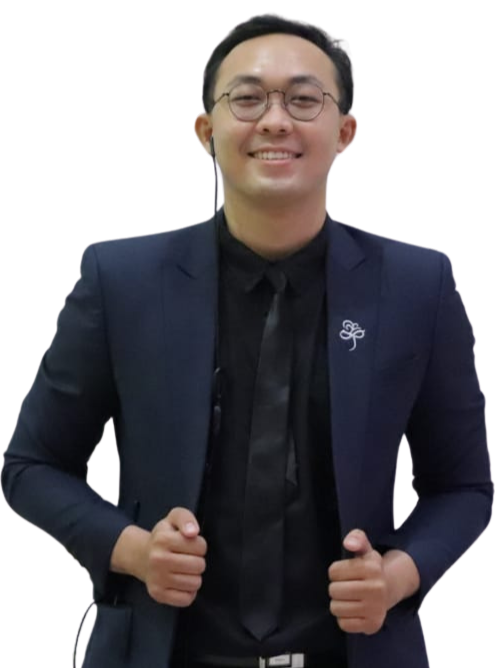
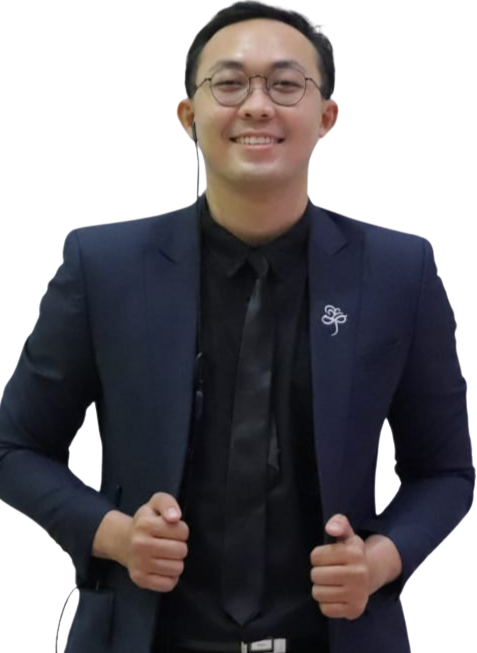
responsive

diff --git a/index.css b/index.css
@@ -1118,7 +1118,7 @@ a {
 }
 .popup-pembayaran h1 {
     color: var(--hijau-muda);
-    font-size: 15px;
+    font-size: 1.1vw;
 }
 
 .popup-pembayaran h2 {
@@ -1127,7 +1127,7 @@ a {
 }
 .popup-pembayaran img{
     width: 220px;
-    height: 200px;
+    height: 210px;
     margin: 50px 0;
 }
 .button-container {
@@ -1224,13 +1224,13 @@ a {
 
 .popup-berhasil h1 {
     color: var(--hijau-muda);
-    font-size: 12px;
+    font-size: 1vw;
 }
 .popup-berhasil h1 span {
     color: var(--hitam);
 }
 .popup-berhasil h2,.popup-terima h2 {
-    font-size: 30px;
+    font-size: 2vw;
     color: var(--hitam);
     margin: 20px 0;
 }
@@ -1339,7 +1339,7 @@ a {
 }
 
 .card1 {
-    height: 650px;
+    height: 600px;
     top: -60px;
 }
 .card2 {
@@ -1666,7 +1666,7 @@ a {
     padding: 30px 100px; 
 }
 .card1 {
-    height: 500px;
+    height: 450px;
 }
 .card2 {
     height: 500px;
@@ -1907,7 +1907,7 @@ a {
         grid-gap: 1vw;
     }
     .harga-bundling .bundling {
-        padding: 3px 8px;
+        padding: 3px 6px;
         border: 1px solid var(--hijau-tua);
         border-radius: 2px;
     }
@@ -1932,11 +1932,54 @@ a {
         
     }
 
-    
-
+    .popup-pembayaran{
+        padding: 10px;
+    }
+    .popup-pembayaran img{
+        width: 60px;
+        height: 55px;
+        margin: 10px 0;
+    }
+    .button-container {
+        padding: 0 20px; /* Opsional: Menambahkan padding agar tidak menempel ke tepi container */
+    }
+    .btn-tidak,.btn-iya {
+        padding: 5px 0 ;
+        width: 30px;
+        border-radius: 3px;
+    }
+    .popup-transfer ,.popup-kirim,.popup-berhasil,.popup-terima{
+        padding: 10px;
+        border-radius: 3px;
+    }
     .program h2 {
         padding-bottom:2vw;
     }
+    .popup-transfer h2 ,.popup-kirim h2,.popup-berhasil h2,.popup-terima h2 {
+        margin: 0;
+    }
+    .popup-transfer img,.popup-kirim img{
+        width: 50px;
+        height: 50px;
+        padding: 0;
+    }
+    .popup-berhasil img,.popup-terima img {
+        width: 30px;
+        height: 30px;
+        padding: 0;
+    }
+    .popup-berhasil img{
+        border: 2px solid var(--hijau-muda);
+    }
+    @keyframes slideUpDown {
+        0% {
+            transform: translateY(0);
+        }
+        100% {
+            transform: translateY(-10px); /* Atur jarak naik turun */
+        }
+    }
+
     .program-1 img,
     .program-2 img {
         width: 20vw; /* Lebar dalam vw untuk layar kecil (setengah dari ukuran asli) */
@@ -1974,7 +2017,7 @@ a {
         padding: 15px;
     }
     .card1 {
-        height: 200px;
+        height: 180px;
         top: -15px;
     }
     .card2 {

diff --git a/index.html b/index.html
@@ -339,7 +339,7 @@
                                 <h3>Hapsari Retno P</h3>
                                 <p>PM Kelp 4 </p>
                             </div>
-                            <img src="foto/foto.png" alt="foto">
+                            <img src="foto/hapsari.png" alt="foto">
                         </div>
                         <div class="card card4">
                             <div class="card-header">
@@ -360,7 +360,7 @@
                                 <h3>Ekel Sapana T.</h3>
                                 <p>FrontEnd Developer</p>
                             </div>
-                            <img src="foto/foto.png" alt="foto">
+                            <img src="foto/ekel.png" alt="foto">
                         </div>
                     </div>
 
